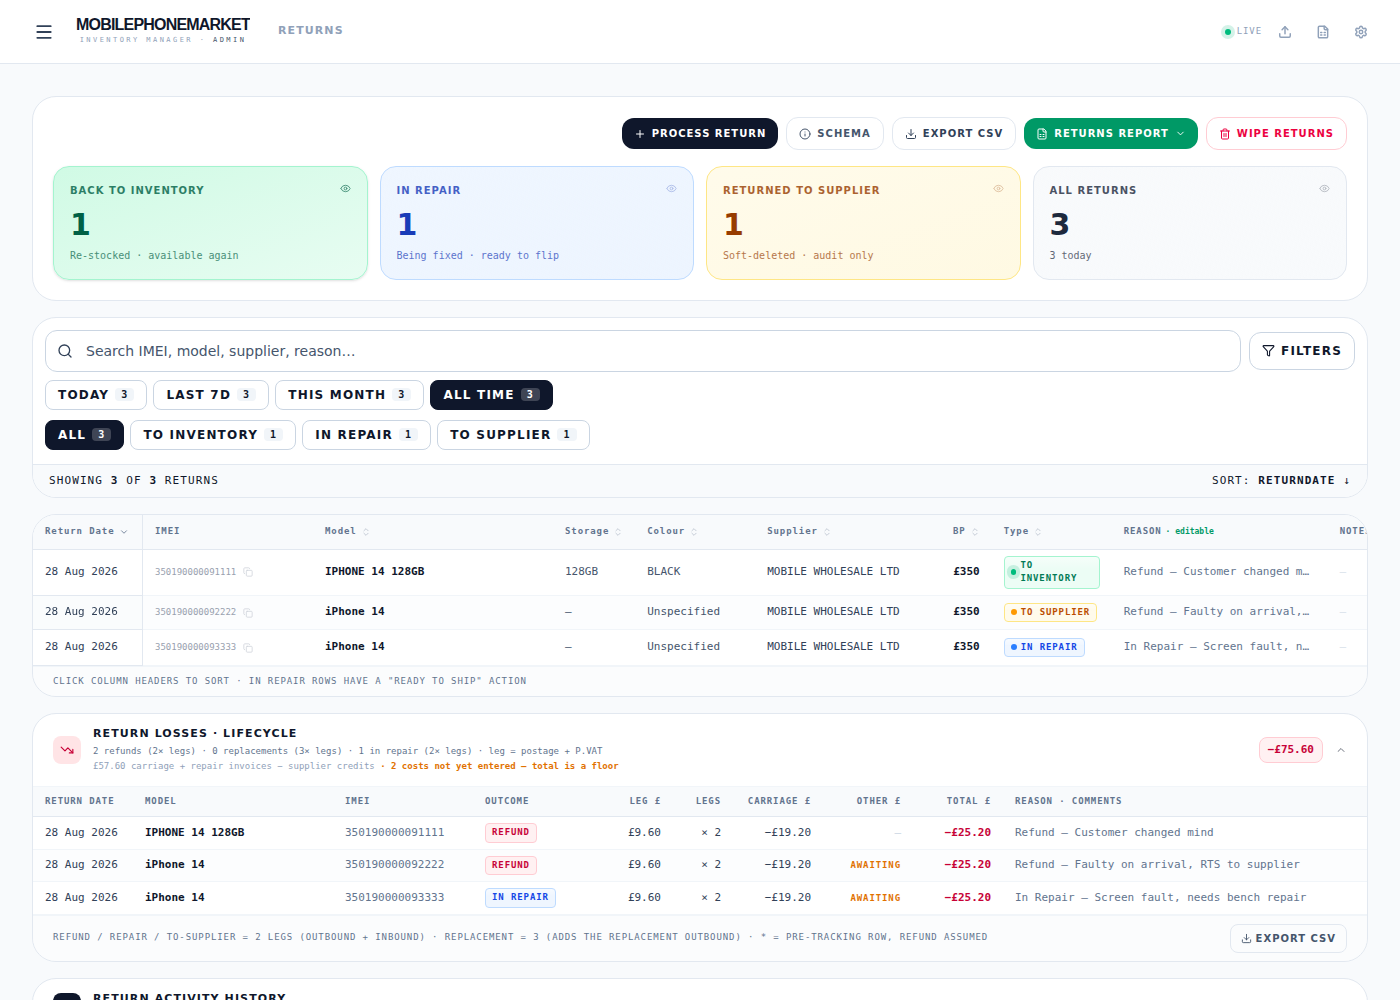
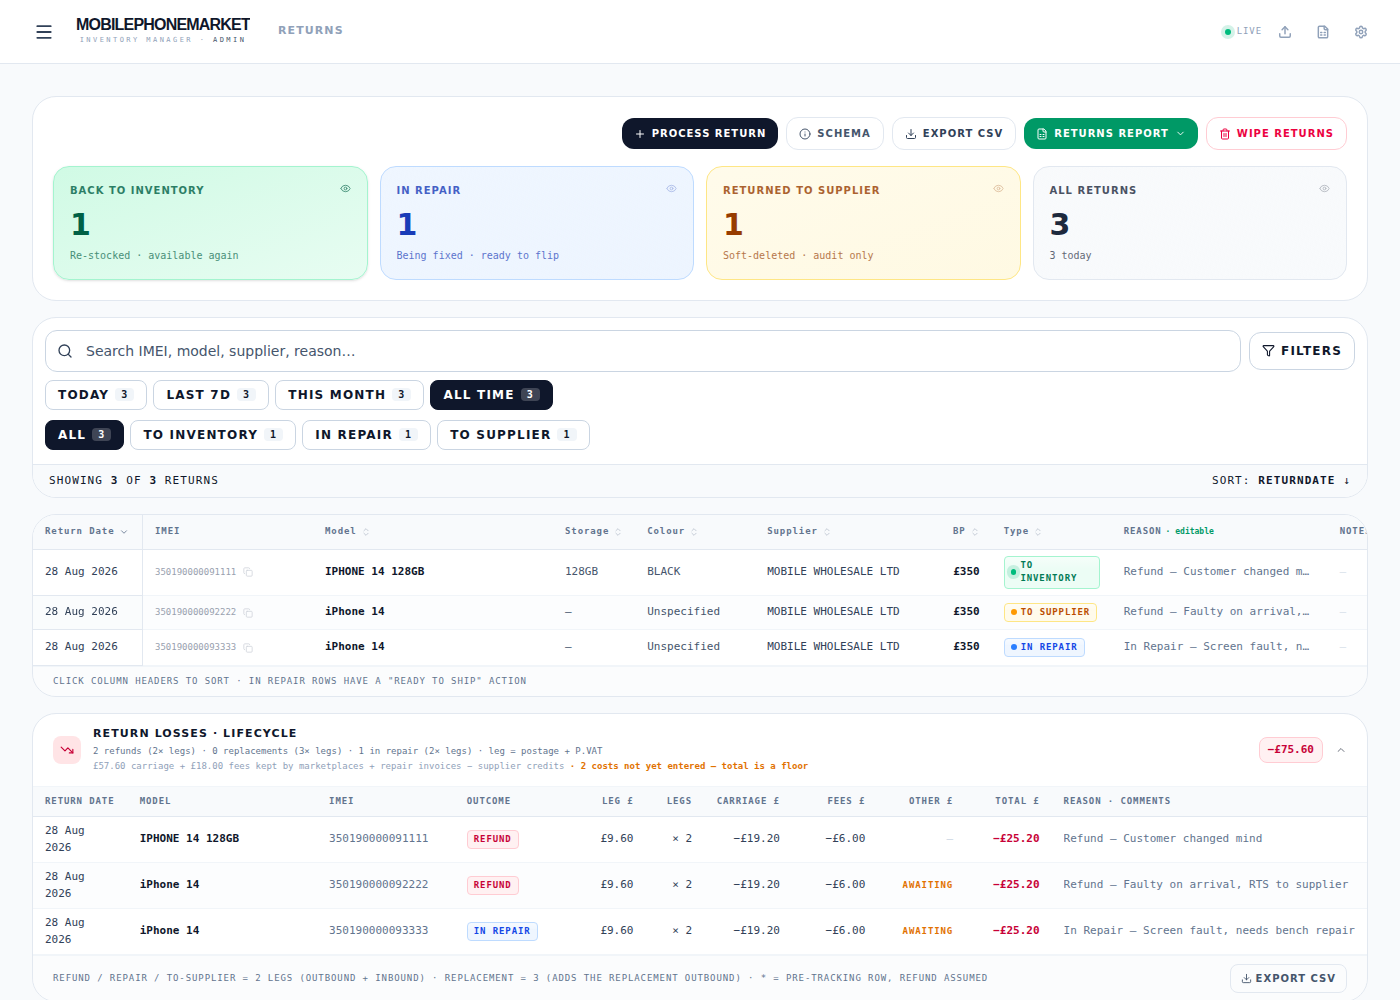
A voided sale must never vanish from the loss picture
The operator's brief, verbatim: the client is family, and "I want him to have
the accurate data … exact pinpointed accurate data" — and their worry was that
voided sales stop being shown, with the loss only appearing once the return is
processed. Auditing every surface against that standard found three places the
in-app Returns page fell short of the workbook it is supposed to agree with.

1. A VOIDED SALE WITH NO RESOLVABLE UNIT DISAPPEARED ENTIRELY

The loss ledger built one row per voided sale — then `if (!u) continue`. A
sale whose unit was deleted, or that arrived by import with an IMEI inventory
never held, was hidden from the Sell side (voided) AND absent here (no unit):
revenue removed, loss never shown, transaction gone from the books. The
workbook's Returns & Profit already counted these from the sale alone; the
page now builds the same sale-only row — carriage from the sale's own postage,
fees kept from the marketplace policy, flagged "No matching unit" so the gap
in unit-side costs is visible rather than invisible.

Accessory-pool sales are the deliberate exception: they never have a unit and
AccessoryReturnsSection is their home, so the ledger skips exactly those —
one page, each loss shown once.

2. THE LEDGER'S ROWS NO LONGER RECONCILED BY EYE

feeLossOnRefund went into each row's Total when the fee model landed, but the
table showed Carriage £ and Other £ only — so Carriage + Other ≠ Total on any
[…]

Changed region(s): [[0.0307, 0.744, 0.9521, 1.0], [0.43, 0.837, 0.4607, 0.899], [0.1843, 0.744, 0.215, 0.775]]

diff --git a/src/components/ReturnsPage.tsx b/src/components/ReturnsPage.tsx
@@ -677,7 +677,8 @@ export default function ReturnsPage() {
           (outbound + inbound), replacement = 3 (plus the replacement
           outbound). Leg cost = postage + P.VAT snapshotted from the
           voided sale at Process Return time. */}
-      <ReturnLossSection units={allReturns} sales={sales} region={region} />
+      <ReturnLossSection units={allReturns} sales={sales} region={region}
+        accessorySkus={accessoryBySku} />
 
       {/* ── Accessory returns ─────────────────────────────────────────────
           Kept as its own section rather than merged into the sheet above:
@@ -1240,16 +1241,28 @@ function EditableTextCell({
 // (unit.returnLegCost); legacy rows processed before the snapshot
 // existed fall back to the voided Sale doc linked by unitId.
 function ReturnLossSection({
-  units, sales, region,
+  units, sales, region, accessorySkus,
 }: {
   units: InventoryUnit[];
   sales: Sale[];
   region: 'uk' | 'india' | 'admin' | 'both';
+  /** SKUs the AccessoryReturnsSection owns. A voided accessory sale is that
+   *  section's row, not this ledger's — listing it in both would show the
+   *  same loss twice on one page. */
+  accessorySkus: ReadonlyMap<string, unknown>;
 }) {
   const [open, setOpen] = useState(true);
 
   type LossRow = {
-    unit: InventoryUnit;
+    /** Null when the voided sale resolves to no unit at all — the unit was
+     *  deleted, or the sale arrived by import with an IMEI inventory never
+     *  held. The LOSS is still real (the refund still went out, the
+     *  marketplace still kept its fees), and dropping the row was how a
+     *  voided sale could vanish from this page entirely: hidden from the
+     *  Sell side as voided, missing here for want of a unit. The workbook's
+     *  Returns & Profit already counted these from the sale alone; the page
+     *  now agrees. */
+    unit: InventoryUnit | null;
     /** The voided sale this loss row corresponds to, when one exists.
      *  Null only for legacy returns whose Sale doc was never voided. */
     sale: Sale | null;
@@ -1267,7 +1280,10 @@ function ReturnLossSection({
 
     /** Recovered from the supplier; reduces the total. */
     supplierCredit: number;
-    /** loss + repairCost - supplierCredit. A replacement adds nothing here:
+    /** Marketplace fees the channel kept on the refund. Per CYCLE — it hangs
+     *  off the voided sale, so a unit returned twice loses it twice. */
+    feeLoss: number;
+    /** loss + repairCost + feeLoss - supplierCredit. A replacement adds nothing here:
      *  the faulty unit comes back as the outbound one leaves, so only the
      *  three carriage legs in `loss` were actually consumed. */
     totalCost: number;
@@ -1277,7 +1293,7 @@ function ReturnLossSection({
 
   /** The row before the unit-level costs are attached. They are added in a
    *  second pass, after sorting, so only a unit's current cycle takes them. */
-  type BaseLossRow = Omit<LossRow, 'repairCost' | 'supplierCredit' | 'totalCost' | 'gaps'>;
+  type BaseLossRow = Omit<LossRow, 'repairCost' | 'supplierCredit' | 'feeLoss' | 'totalCost' | 'gaps'>;
 
   const rows = useMemo<LossRow[]>(() => {
     // Build one row PER return cycle (per voided Sale doc), not one
@@ -1324,7 +1340,29 @@ function ReturnLossSection({
     for (const s of sales) {
       if (!s.voidedAt) continue;
       const u = resolveUnit(s);
-      if (!u) continue;
+      if (!u) {
+        // No unit to hang the loss on — but the loss happened. Build the row
+        // from the sale alone, exactly as the workbook's Returns & Profit
+        // does, so the page and the export show the same total.
+        // Accessory-pool sales are the one exception: they never have a unit
+        // BY DESIGN and AccessoryReturnsSection below is their home.
+        const sku = (s.sku || '').trim().toUpperCase();
+        if (!(s.imei || '').trim() && sku && accessorySkus.has(sku)) continue;
+        const postage = Number(s.postage) || 0;
+        const pVat = s.postageVatExempt ? 0 : (Number(s.postageVat) || postage * 0.2);
+        const saleOutcome = (s.voidOutcome === 'replacement' ? 'replacement'
+          : s.voidOutcome === 'repair' ? 'repair' : 'refund') as 'refund' | 'replacement' | 'repair';
+        out.push({
+          unit: null,
+          sale: s,
+          cycleDate: s.voidedAt,
+          outcome: saleOutcome,
+          legCost: postage + pVat,
+          legs: saleOutcome === 'replacement' ? 3 : 2,
+          loss: (postage + pVat) * (saleOutcome === 'replacement' ? 3 : 2),
+        });
+        continue;
+      }
       const isRepair = isRepairCycle(u, s);
       const outcome = (isRepair
         ? 'repair'
@@ -1401,7 +1439,9 @@ function ReturnLossSection({
       // returned twice loses it twice — unlike the repair invoice and the
       // supplier credit, which the unit holds once.
       const feeLoss = feeLossOnRefund(r.sale);
-      if (extrasClaimed.has(r.unit.id)) {
+      // A row with no unit has nowhere to hold a repair invoice or a supplier
+      // credit — carriage and kept fees are its whole cost.
+      if (!r.unit || extrasClaimed.has(r.unit.id)) {
         return { ...r, repairCost: 0, supplierCredit: 0, feeLoss, totalCost: r.loss + feeLoss, gaps: [] };
       }
       extrasClaimed.add(r.unit.id);
@@ -1419,6 +1459,7 @@ function ReturnLossSection({
 
   const totalLoss = rows.reduce((t, r) => t + r.totalCost, 0);
   const carriageOnly = rows.reduce((t, r) => t + r.loss, 0);
+  const feesKept = rows.reduce((t, r) => t + r.feeLoss, 0);
   const gapCount = rows.reduce((t, r) => t + r.gaps.length, 0);
   // Before the repair-route fix landed, `refunds` counted everything that
   // wasn't a replacement — which swept repairs into the refund tally and
@@ -1434,17 +1475,18 @@ function ReturnLossSection({
   const exportCsv = () => {
     downloadCsv(`return-losses-${todayStr()}.csv`, rows.map(r => ({
       'Return Date':        r.cycleDate || '',
-      'Model':              r.unit.model || '',
-      'IMEI':               r.unit.imei || '',
-      'Destination':        r.unit.returnType || '',
+      'Model':              r.unit?.model || r.sale?.model || r.sale?.sku || '',
+      'IMEI':               r.unit?.imei || r.sale?.imei || '',
+      'Destination':        r.unit?.returnType || (r.unit ? '' : 'no matching unit'),
       'Outcome':            r.outcome || 'refund (assumed)',
-      'Reason':             (r.sale?.voidReason) || r.unit.returnReason || '',
-      'Comments':           r.unit.returnComments || '',
+      'Reason':             (r.sale?.voidReason) || r.unit?.returnReason || '',
+      'Comments':           r.unit?.returnComments || '',
       'Leg Cost (£)':       r.legCost.toFixed(2),
       'Shipping Legs':      r.legs,
       'Postage Loss (£)':   r.loss.toFixed(2),
       'Repair Cost (£)':    r.repairCost ? r.repairCost.toFixed(2) : '',
       'Supplier Credit (£)': r.supplierCredit ? r.supplierCredit.toFixed(2) : '',
+      'Fees Kept (£)':      r.feeLoss ? r.feeLoss.toFixed(2) : '',
       'Total Cost (£)':     r.totalCost.toFixed(2),
       'Costs Outstanding':  r.gaps.join(' · '),
     })));
@@ -1468,7 +1510,7 @@ function ReturnLossSection({
             {refunds} refund{refunds === 1 ? '' : 's'} (2× legs) · {replacements} replacement{replacements === 1 ? '' : 's'} (3× legs){repairs > 0 ? ` · ${repairs} in repair (2× legs)` : ''} · leg = postage + P.VAT
           </p>
           <p className="text-[9px] font-mono text-slate-400 mt-0.5">
-            £{carriageOnly.toFixed(2)} carriage + repair invoices − supplier credits
+            £{carriageOnly.toFixed(2)} carriage + £{feesKept.toFixed(2)} fees kept by marketplaces + repair invoices − supplier credits
             {gapCount > 0 && (
               <span className="text-amber-600 font-bold">
                 {' '}· {gapCount} cost{gapCount === 1 ? '' : 's'} not yet entered — total is a floor
@@ -1497,6 +1539,7 @@ function ReturnLossSection({
                   <th className="text-right px-3 py-2 border-b border-slate-200" style={{ width: 90 }}>Leg £</th>
                   <th className="text-right px-3 py-2 border-b border-slate-200" style={{ width: 60 }}>Legs</th>
                   <th className="text-right px-3 py-2 border-b border-slate-200" style={{ width: 90 }}>Carriage £</th>
+                  <th className="text-right px-3 py-2 border-b border-slate-200" style={{ width: 90 }} title="Marketplace fees kept on the refund, from the real settlements: Amazon keeps a capped admin fee (min of 20% of commission or £5, +VAT), eBay its fixed £0.40 order fee +VAT; Back Market, OnBuy and Temu keep every fee they collected. £0 on a replacement or out-of-warranty repair — no refund reached the marketplace.">Fees £</th>
                   <th className="text-right px-3 py-2 border-b border-slate-200" style={{ width: 90 }} title="Repair invoice, less any supplier credit. A replacement adds nothing — the faulty unit returns as the replacement ships, so only the carriage is lost.">Other £</th>
                   <th className="text-right px-3 py-2 border-b border-slate-200" style={{ width: 90 }}>Total £</th>
                   <th className="text-left px-3 py-2 border-b border-slate-200">Reason · Comments</th>
@@ -1507,14 +1550,17 @@ function ReturnLossSection({
                   const isAlt = idx % 2 === 1;
                   const rowBg = isAlt ? 'bg-slate-50/40' : 'bg-white';
                   return (
-                    <tr key={`${r.unit.id}-${r.cycleDate}-${r.sale?.id ?? 'legacy'}`} className={`${rowBg} hover:bg-rose-50/30 transition-colors`}>
+                    <tr key={`${r.unit?.id ?? 'no-unit'}-${r.cycleDate}-${r.sale?.id ?? 'legacy'}`} className={`${rowBg} hover:bg-rose-50/30 transition-colors`}>
                       <td className="px-3 py-1.5 border-b border-slate-100 text-slate-700">
                         {fmtDateForUser(r.cycleDate || '', region) || r.cycleDate || '—'}
                       </td>
                       <td className="px-3 py-1.5 border-b border-slate-100">
-                        <span className="font-bold text-slate-900 truncate block max-w-[190px]" title={r.unit.model}>{r.unit.model || '—'}</span>
+                        <span className="font-bold text-slate-900 truncate block max-w-[190px]" title={r.unit?.model || r.sale?.model || r.sale?.sku}>{r.unit?.model || r.sale?.model || r.sale?.sku || '—'}</span>
+                        {!r.unit && (
+                          <span className="block text-[8px] font-bold uppercase tracking-widest text-amber-600" title="This voided sale matches no inventory unit — the loss is real and counted, but there is no unit to hold a repair invoice or supplier credit against.">No matching unit</span>
+                        )}
                       </td>
-                      <td className="px-3 py-1.5 border-b border-slate-100 text-slate-500">{r.unit.imei || '—'}</td>
+                      <td className="px-3 py-1.5 border-b border-slate-100 text-slate-500">{r.unit?.imei || r.sale?.imei || '—'}</td>
                       <td className="px-3 py-1.5 border-b border-slate-100">
                         {r.outcome === 'replacement' ? (
                           <span className="inline-flex items-center text-[9px] font-bold uppercase tracking-widest px-1.5 py-0.5 rounded border bg-violet-50 border-violet-200 text-violet-700">Replacement</span>
@@ -1532,6 +1578,11 @@ function ReturnLossSection({
                       <td className="px-3 py-1.5 border-b border-slate-100 text-right text-slate-700">× {r.legs}</td>
                       <td className="px-3 py-1.5 border-b border-slate-100 text-right text-slate-700">
                         {r.loss > 0 ? `−£${r.loss.toFixed(2)}` : <span className="text-slate-300">—</span>}
+                      </td>
+                      <td className="px-3 py-1.5 border-b border-slate-100 text-right text-slate-700">
+                        {r.feeLoss > 0
+                          ? <span title={`Kept by ${r.sale?.marketplace ?? 'the marketplace'} — not refunded`}>−£{r.feeLoss.toFixed(2)}</span>
+                          : <span className="text-slate-300">—</span>}
                       </td>
                       <td className="px-3 py-1.5 border-b border-slate-100 text-right">
                         {(() => {
@@ -1567,9 +1618,9 @@ function ReturnLossSection({
                           : <span className="text-slate-300">—</span>}
                       </td>
                       <td className="px-3 py-1.5 border-b border-slate-100 text-slate-500">
-                        <span className="truncate block max-w-[300px]" title={[r.sale?.voidReason || r.unit.returnReason, r.unit.returnComments].filter(Boolean).join(' · ')}>
-                          {(r.sale?.voidReason) || r.unit.returnReason || '—'}
-                          {r.unit.returnComments && <span className="text-slate-400"> · {r.unit.returnComments}</span>}
+                        <span className="truncate block max-w-[300px]" title={[r.sale?.voidReason || r.unit?.returnReason, r.unit?.returnComments].filter(Boolean).join(' · ')}>
+                          {(r.sale?.voidReason) || r.unit?.returnReason || '—'}
+                          {r.unit?.returnComments && <span className="text-slate-400"> · {r.unit.returnComments}</span>}
                         </span>
                       </td>
                     </tr>
@@ -2005,7 +2056,12 @@ function AccessoryReturnsSection({
     // always 2. The UI only creates refunds, but an accessory return can also
     // arrive from a marketplace file whose Outcome column says "replacement",
     // which is 3 legs. Hardcoding 2 made this table disagree with the export.
-    .map(s => ({ sale: s, loss: postageLossFor(s) }))
+    //
+    // feeLossOnRefund for the same reason: a refunded Temu accessory loses
+    // the commission and its VAT outright, and the Returns & Profit sheet
+    // counts that — carriage alone here disagreed with the export by exactly
+    // the kept fee.
+    .map(s => ({ sale: s, loss: postageLossFor(s) + feeLossOnRefund(s) }))
     .sort((a, b) => (b.sale.voidedAt || '').localeCompare(a.sale.voidedAt || '')),
     [sales, accessoryBySku]);
 
